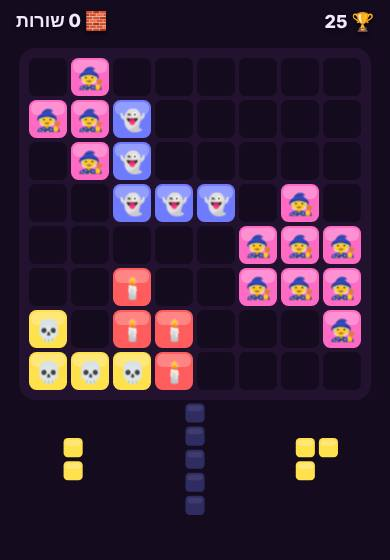
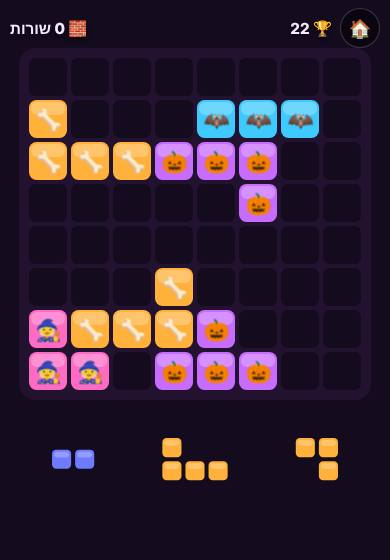
Add exit button to every game
A 🏠 button in each game's top bar (and a 'to all games' link on the start
and game-over cards) returns to the portal home page. The HUD keeps each
side on one line on narrow phones. All games rebuilt, thumbnails retaken.

Claude-Session: https://claude.ai/code/session_0117VfTLpEdnQyHN6pc1hrJg

diff --git a/games/idle-robots-5a80a9/index.html b/games/idle-robots-5a80a9/index.html
@@ -30,6 +30,13 @@
   .choice .ic { font-size:30px; }
   .hidden { display:none !important; }
   .credit { font-size:12px; opacity:.5; margin-top:14px; }
+  #hud .hr { display:flex; align-items:center; gap:8px; }
+  #hud #hudR, #hud #hudL { white-space:nowrap; }
+  @media (max-width:440px) { #hud { font-size:clamp(12px, 3.9vw, 17px); padding:8px 10px; gap:6px; } #home { width:34px; height:34px; font-size:16px; } }
+  #home { pointer-events:auto; width:38px; height:38px; flex:none; display:grid; place-items:center; border-radius:50%;
+    background:#0007; border:1px solid #fff3; text-decoration:none; font-size:18px; text-shadow:none; }
+  #home:active { transform:scale(.92); }
+  .home-link { display:inline-block; color:var(--fg); opacity:.85; font-size:14px; margin-top:10px; text-decoration:none; }
   .snd { background:none; border:1px solid var(--grid); color:var(--fg); border-radius:99px; padding:6px 14px; margin-top:12px; font:inherit; font-size:14px; cursor:pointer; opacity:.85; }
   #app { position:fixed; inset:0; display:flex; flex-direction:column; align-items:center; padding:52px 12px 12px; box-sizing:border-box; z-index:4; pointer-events:none; }
 #app > * { pointer-events:auto; }
@@ -57,7 +64,7 @@
 </head>
 <body>
 <canvas id="c" dir="ltr"></canvas>
-<div id="hud"><span id="hudR"></span><span id="hudL"></span></div>
+<div id="hud"><span class="hr"><a id="home" href="../../index.html" aria-label="חזרה לכל המשחקים" title="לכל המשחקים">🏠</a><span id="hudR"></span></span><span id="hudL"></span></div>
 <div id="app"></div>
 <div id="ov" class="hidden"><div class="card" id="card"></div></div>
 <script type="application/json" id="cfg">{"slug":"idle-robots-5a80a9","title":"מכרה הסוללות","icon":"⚙","howto":"לחץ על ⚙ כדי לאסוף 🔋, וקנה מחוללים. מדי פעם מופיע ✨ זוהר: תפוס אותו בזמן כדי לקבל ייצור פי 7 לכמה שניות!","genreName":"קליקר / איידל · בונוס זהב","theme":{"id":"robots","name":"רובוטים","palette":{"bg":"#0d1418","bg2":"#16232a","fg":"#e0fbff","accent":"#00e5ff","danger":"#ff3d3d","grid":"#1f343e"},"hero":"🤖","enemies":["🦾","📡","💣","🔩"],"boss":"🏭","pickup":"🔋","obstacle":["🚧","⚙"],"tiers":["🔩","⚙","🔋","💡","📟","💾","💻","🤖","🛰","🧠"],"gems":["🔋","⚙","💡","💾","🔩","📡"],"currency":"🔋","clickable":"⚙","buildings":[["🔧","מכונאי"],["⚙","פס ייצור"],["🤖","רובוט עוזר"],["🏭","מפעל"],["🛰","רשת לוויינים"],["🧠","בינה על"]],"words":{"place":"העיר הממוכנת","hero":"הרובוט","thing":"הסוללות","adj":"ממוכן"}},"params":{"speed":1.07,"click":1,"variant":"golden"}}</script>
@@ -195,7 +202,8 @@ function hud(right = '', left = '') {
 function showCard(html) { $card.innerHTML = html; $ov.classList.remove('hidden'); }
 function hideCard() { $ov.classList.add('hidden'); }
 
-const soundBtn = () => `<div><button class="snd" id="snd">${muted ? '🔇 צלילים כבויים' : '🔊 צלילים פועלים'}</button></div>`;
+const soundBtn = () => `<div><button class="snd" id="snd">${muted ? '🔇 צלילים כבויים' : '🔊 צלילים פועלים'}</button></div>
+  <a class="home-link" href="../../index.html">🏠 לכל המשחקים</a>`;
 function wireSound() {
   const b = document.getElementById('snd'); if (!b) return;
   b.onclick = () => { setMuted(!muted); b.textContent = muted ? '🔇 צלילים כבויים' : '🔊 צלילים פועלים'; if (!muted) beep(660, 0.12, 'triangle', 0.05); };

diff --git a/games/survivors-space-928206/index.html b/games/survivors-space-928206/index.html
@@ -30,13 +30,20 @@
   .choice .ic { font-size:30px; }
   .hidden { display:none !important; }
   .credit { font-size:12px; opacity:.5; margin-top:14px; }
+  #hud .hr { display:flex; align-items:center; gap:8px; }
+  #hud #hudR, #hud #hudL { white-space:nowrap; }
+  @media (max-width:440px) { #hud { font-size:clamp(12px, 3.9vw, 17px); padding:8px 10px; gap:6px; } #home { width:34px; height:34px; font-size:16px; } }
+  #home { pointer-events:auto; width:38px; height:38px; flex:none; display:grid; place-items:center; border-radius:50%;
+    background:#0007; border:1px solid #fff3; text-decoration:none; font-size:18px; text-shadow:none; }
+  #home:active { transform:scale(.92); }
+  .home-link { display:inline-block; color:var(--fg); opacity:.85; font-size:14px; margin-top:10px; text-decoration:none; }
   .snd { background:none; border:1px solid var(--grid); color:var(--fg); border-radius:99px; padding:6px 14px; margin-top:12px; font:inherit; font-size:14px; cursor:pointer; opacity:.85; }
   
 </style>
 </head>
 <body>
 <canvas id="c" dir="ltr"></canvas>
-<div id="hud"><span id="hudR"></span><span id="hudL"></span></div>
+<div id="hud"><span class="hr"><a id="home" href="../../index.html" aria-label="חזרה לכל המשחקים" title="לכל המשחקים">🏠</a><span id="hudR"></span></span><span id="hudL"></span></div>
 <div id="app"></div>
 <div id="ov" class="hidden"><div class="card" id="card"></div></div>
 <script type="application/json" id="cfg">{"slug":"survivors-space-928206","title":"הישרדות בחלל","icon":"🚀","howto":"האזור הבטוח מתכווץ וזז! הישאר בתוך העיגול, כי מחוצה לו מאבדים חיים. הנשק יורה לבד, וגוררים באצבע או משתמשים בחיצים כדי לזוז. אסוף יהלומים לשדרוגים.","genreName":"הישרדות מול גלים · אזור מתכווץ","theme":{"id":"space","name":"חלל","palette":{"bg":"#0b1026","bg2":"#151c3d","fg":"#e8ecff","accent":"#ffcc33","danger":"#ff4d6d","grid":"#1f2a55"},"hero":"🚀","enemies":["👾","🛸","☄","👽"],"boss":"🪐","pickup":"⭐","obstacle":["☄","🛰"],"tiers":["🪨","☄","🌑","🌙","⭐","🌍","🪐","☀","🌌","✨"],"gems":["🌍","🪐","⭐","🌙","☄","👾"],"currency":"💎","clickable":"🪐","buildings":[["🛰","לוויין"],["🛸","ספינת כרייה"],["🤖","רובוט כורה"],["🌙","בסיס ירחי"],["🪐","מושבה"],["🌌","גלקסיה"]],"words":{"place":"החלל","hero":"הטייס","thing":"הכוכבים","adj":"קוסמי"}},"params":{"enemySpeed":53.669,"spawnRate":0.738,"playerSpeed":225.36,"fireRate":2.1975873688894465,"hp":7,"bossEvery":63,"zoneShrink":1.8,"variant":"zone"}}</script>
@@ -174,7 +181,8 @@ function hud(right = '', left = '') {
 function showCard(html) { $card.innerHTML = html; $ov.classList.remove('hidden'); }
 function hideCard() { $ov.classList.add('hidden'); }
 
-const soundBtn = () => `<div><button class="snd" id="snd">${muted ? '🔇 צלילים כבויים' : '🔊 צלילים פועלים'}</button></div>`;
+const soundBtn = () => `<div><button class="snd" id="snd">${muted ? '🔇 צלילים כבויים' : '🔊 צלילים פועלים'}</button></div>
+  <a class="home-link" href="../../index.html">🏠 לכל המשחקים</a>`;
 function wireSound() {
   const b = document.getElementById('snd'); if (!b) return;
   b.onclick = () => { setMuted(!muted); b.textContent = muted ? '🔇 צלילים כבויים' : '🔊 צלילים פועלים'; if (!muted) beep(660, 0.12, 'triangle', 0.05); };

diff --git a/games/survivors-spooky-316990/index.html b/games/survivors-spooky-316990/index.html
@@ -30,13 +30,20 @@
   .choice .ic { font-size:30px; }
   .hidden { display:none !important; }
   .credit { font-size:12px; opacity:.5; margin-top:14px; }
+  #hud .hr { display:flex; align-items:center; gap:8px; }
+  #hud #hudR, #hud #hudL { white-space:nowrap; }
+  @media (max-width:440px) { #hud { font-size:clamp(12px, 3.9vw, 17px); padding:8px 10px; gap:6px; } #home { width:34px; height:34px; font-size:16px; } }
+  #home { pointer-events:auto; width:38px; height:38px; flex:none; display:grid; place-items:center; border-radius:50%;
+    background:#0007; border:1px solid #fff3; text-decoration:none; font-size:18px; text-shadow:none; }
+  #home:active { transform:scale(.92); }
+  .home-link { display:inline-block; color:var(--fg); opacity:.85; font-size:14px; margin-top:10px; text-decoration:none; }
   .snd { background:none; border:1px solid var(--grid); color:var(--fg); border-radius:99px; padding:6px 14px; margin-top:12px; font:inherit; font-size:14px; cursor:pointer; opacity:.85; }
   
 </style>
 </head>
 <body>
 <canvas id="c" dir="ltr"></canvas>
-<div id="hud"><span id="hudR"></span><span id="hudL"></span></div>
+<div id="hud"><span class="hr"><a id="home" href="../../index.html" aria-label="חזרה לכל המשחקים" title="לכל המשחקים">🏠</a><span id="hudR"></span></span><span id="hudL"></span></div>
 <div id="app"></div>
 <div id="ov" class="hidden"><div class="card" id="card"></div></div>
 <script type="application/json" id="cfg">{"slug":"survivors-spooky-316990","title":"הדלעת נגד כולם","icon":"🎃","howto":"שרוד מול גלי 👻🦇💀🧟 ככל שתוכל! הנשק יורה לבד. זוז עם החיצים או WASD, או גרור באצבע. אסוף את היהלומים הזוהרים כדי לעלות שלב ולבחור שדרוג.","genreName":"הישרדות מול גלים","theme":{"id":"spooky","name":"מפחיד","palette":{"bg":"#140b1f","bg2":"#22122f","fg":"#f3e9ff","accent":"#ff9a1f","danger":"#9dff4d","grid":"#2e1a40"},"hero":"🎃","enemies":["👻","🦇","💀","🧟"],"boss":"🧛","pickup":"🍬","obstacle":["🪦","🕸"],"tiers":["🕯","🦴","💀","🕸","🦇","👻","🎃","🧙","🧛","🌕"],"gems":["🎃","👻","💀","🦇","🕷","🍬"],"currency":"👻","clickable":"🎃","buildings":[["🕯","נר קסום"],["🦇","עטלף"],["🧹","מטאטא"],["🧙","מכשפה"],["🏚","בית רדוף"],["🌕","ירח מלא"]],"words":{"place":"בית הקברות","hero":"הדלעת","thing":"הרוחות","adj":"אפל"}},"params":{"enemySpeed":73.9442,"spawnRate":1.3298,"playerSpeed":220.17,"fireRate":1.991786412935408,"hp":5,"bossEvery":55}}</script>
@@ -174,7 +181,8 @@ function hud(right = '', left = '') {
 function showCard(html) { $card.innerHTML = html; $ov.classList.remove('hidden'); }
 function hideCard() { $ov.classList.add('hidden'); }
 
-const soundBtn = () => `<div><button class="snd" id="snd">${muted ? '🔇 צלילים כבויים' : '🔊 צלילים פועלים'}</button></div>`;
+const soundBtn = () => `<div><button class="snd" id="snd">${muted ? '🔇 צלילים כבויים' : '🔊 צלילים פועלים'}</button></div>
+  <a class="home-link" href="../../index.html">🏠 לכל המשחקים</a>`;
 function wireSound() {
   const b = document.getElementById('snd'); if (!b) return;
   b.onclick = () => { setMuted(!muted); b.textContent = muted ? '🔇 צלילים כבויים' : '🔊 צלילים פועלים'; if (!muted) beep(660, 0.12, 'triangle', 0.05); };

diff --git a/games/arrows-robots-95ec09/index.html b/games/arrows-robots-95ec09/index.html
@@ -30,13 +30,20 @@
   .choice .ic { font-size:30px; }
   .hidden { display:none !important; }
   .credit { font-size:12px; opacity:.5; margin-top:14px; }
+  #hud .hr { display:flex; align-items:center; gap:8px; }
+  #hud #hudR, #hud #hudL { white-space:nowrap; }
+  @media (max-width:440px) { #hud { font-size:clamp(12px, 3.9vw, 17px); padding:8px 10px; gap:6px; } #home { width:34px; height:34px; font-size:16px; } }
+  #home { pointer-events:auto; width:38px; height:38px; flex:none; display:grid; place-items:center; border-radius:50%;
+    background:#0007; border:1px solid #fff3; text-decoration:none; font-size:18px; text-shadow:none; }
+  #home:active { transform:scale(.92); }
+  .home-link { display:inline-block; color:var(--fg); opacity:.85; font-size:14px; margin-top:10px; text-decoration:none; }
   .snd { background:none; border:1px solid var(--grid); color:var(--fg); border-radius:99px; padding:6px 14px; margin-top:12px; font:inherit; font-size:14px; cursor:pointer; opacity:.85; }
   
 </style>
 </head>
 <body>
 <canvas id="c" dir="ltr"></canvas>
-<div id="hud"><span id="hudR"></span><span id="hudL"></span></div>
+<div id="hud"><span class="hr"><a id="home" href="../../index.html" aria-label="חזרה לכל המשחקים" title="לכל המשחקים">🏠</a><span id="hudR"></span></span><span id="hudL"></span></div>
 <div id="app"></div>
 <div id="ov" class="hidden"><div class="card" id="card"></div></div>
 <script type="application/json" id="cfg">{"slug":"arrows-robots-95ec09","title":"מבוך החצים","icon":"➡","howto":"לחץ על חץ, והוא יחליק החוצה בכיוון שלו אם הדרך פנויה. חץ שנתקע בחץ אחר עולה בלב ❤. נקה את כל החצים כדי לעבור שלב. כל לוח פתיר, צריך רק למצוא את הסדר.","genreName":"פאזל חצים","theme":{"id":"robots","name":"רובוטים","palette":{"bg":"#0d1418","bg2":"#16232a","fg":"#e0fbff","accent":"#00e5ff","danger":"#ff3d3d","grid":"#1f343e"},"hero":"🤖","enemies":["🦾","📡","💣","🔩"],"boss":"🏭","pickup":"🔋","obstacle":["🚧","⚙"],"tiers":["🔩","⚙","🔋","💡","📟","💾","💻","🤖","🛰","🧠"],"gems":["🔋","⚙","💡","💾","🔩","📡"],"currency":"🔋","clickable":"⚙","buildings":[["🔧","מכונאי"],["⚙","פס ייצור"],["🤖","רובוט עוזר"],["🏭","מפעל"],["🛰","רשת לוויינים"],["🧠","בינה על"]],"words":{"place":"העיר הממוכנת","hero":"הרובוט","thing":"הסוללות","adj":"ממוכן"}},"params":{"startSize":4,"maxSize":9,"density":0.5576,"hearts":3}}</script>
@@ -174,7 +181,8 @@ function hud(right = '', left = '') {
 function showCard(html) { $card.innerHTML = html; $ov.classList.remove('hidden'); }
 function hideCard() { $ov.classList.add('hidden'); }
 
-const soundBtn = () => `<div><button class="snd" id="snd">${muted ? '🔇 צלילים כבויים' : '🔊 צלילים פועלים'}</button></div>`;
+const soundBtn = () => `<div><button class="snd" id="snd">${muted ? '🔇 צלילים כבויים' : '🔊 צלילים פועלים'}</button></div>
+  <a class="home-link" href="../../index.html">🏠 לכל המשחקים</a>`;
 function wireSound() {
   const b = document.getElementById('snd'); if (!b) return;
   b.onclick = () => { setMuted(!muted); b.textContent = muted ? '🔇 צלילים כבויים' : '🔊 צלילים פועלים'; if (!muted) beep(660, 0.12, 'triangle', 0.05); };

diff --git a/games/idle-farm-794578/index.html b/games/idle-farm-794578/index.html
@@ -30,6 +30,13 @@
   .choice .ic { font-size:30px; }
   .hidden { display:none !important; }
   .credit { font-size:12px; opacity:.5; margin-top:14px; }
+  #hud .hr { display:flex; align-items:center; gap:8px; }
+  #hud #hudR, #hud #hudL { white-space:nowrap; }
+  @media (max-width:440px) { #hud { font-size:clamp(12px, 3.9vw, 17px); padding:8px 10px; gap:6px; } #home { width:34px; height:34px; font-size:16px; } }
+  #home { pointer-events:auto; width:38px; height:38px; flex:none; display:grid; place-items:center; border-radius:50%;
+    background:#0007; border:1px solid #fff3; text-decoration:none; font-size:18px; text-shadow:none; }
+  #home:active { transform:scale(.92); }
+  .home-link { display:inline-block; color:var(--fg); opacity:.85; font-size:14px; margin-top:10px; text-decoration:none; }
   .snd { background:none; border:1px solid var(--grid); color:var(--fg); border-radius:99px; padding:6px 14px; margin-top:12px; font:inherit; font-size:14px; cursor:pointer; opacity:.85; }
   #app { position:fixed; inset:0; display:flex; flex-direction:column; align-items:center; padding:52px 12px 12px; box-sizing:border-box; z-index:4; pointer-events:none; }
 #app > * { pointer-events:auto; }
@@ -57,7 +64,7 @@
 </head>
 <body>
 <canvas id="c" dir="ltr"></canvas>
-<div id="hud"><span id="hudR"></span><span id="hudL"></span></div>
+<div id="hud"><span class="hr"><a id="home" href="../../index.html" aria-label="חזרה לכל המשחקים" title="לכל המשחקים">🏠</a><span id="hudR"></span></span><span id="hudL"></span></div>
 <div id="app"></div>
 <div id="ov" class="hidden"><div class="card" id="card"></div></div>
 <script type="application/json" id="cfg">{"slug":"idle-farm-794578","title":"טייקון החווה","icon":"🌽","howto":"לחץ על 🌽 כדי לאסוף 🥚, וקנה מחוללים שמייצרים בשבילך. ההתקדמות נשמרת.","genreName":"קליקר / איידל","theme":{"id":"farm","name":"חווה","palette":{"bg":"#2b3a12","bg2":"#3d5219","fg":"#fbffe8","accent":"#ffb627","danger":"#e63946","grid":"#4a6320"},"hero":"🐔","enemies":["🦊","🐀","🐗","🐦⬛"],"boss":"🐻","pickup":"🥚","obstacle":["🪵","🌾"],"tiers":["🌱","🌾","🥕","🍅","🌽","🥚","🐣","🐔","🐄","🚜"],"gems":["🥕","🍅","🌽","🥚","🍎","🍇"],"currency":"🥚","clickable":"🌽","buildings":[["🐔","לול"],["🐄","רפת"],["🌻","שדה"],["🚜","טרקטור"],["🏡","משק"],["🏞","עמק שלם"]],"words":{"place":"החווה","hero":"התרנגולת","thing":"הביצים","adj":"כפרי"}},"params":{"speed":0.9508196721311475,"click":1}}</script>
@@ -195,7 +202,8 @@ function hud(right = '', left = '') {
 function showCard(html) { $card.innerHTML = html; $ov.classList.remove('hidden'); }
 function hideCard() { $ov.classList.add('hidden'); }
 
-const soundBtn = () => `<div><button class="snd" id="snd">${muted ? '🔇 צלילים כבויים' : '🔊 צלילים פועלים'}</button></div>`;
+const soundBtn = () => `<div><button class="snd" id="snd">${muted ? '🔇 צלילים כבויים' : '🔊 צלילים פועלים'}</button></div>
+  <a class="home-link" href="../../index.html">🏠 לכל המשחקים</a>`;
 function wireSound() {
   const b = document.getElementById('snd'); if (!b) return;
   b.onclick = () => { setMuted(!muted); b.textContent = muted ? '🔇 צלילים כבויים' : '🔊 צלילים פועלים'; if (!muted) beep(660, 0.12, 'triangle', 0.05); };

diff --git a/games/survivors-jungle-6c7c4f/index.html b/games/survivors-jungle-6c7c4f/index.html
@@ -30,13 +30,20 @@
   .choice .ic { font-size:30px; }
   .hidden { display:none !important; }
   .credit { font-size:12px; opacity:.5; margin-top:14px; }
+  #hud .hr { display:flex; align-items:center; gap:8px; }
+  #hud #hudR, #hud #hudL { white-space:nowrap; }
+  @media (max-width:440px) { #hud { font-size:clamp(12px, 3.9vw, 17px); padding:8px 10px; gap:6px; } #home { width:34px; height:34px; font-size:16px; } }
+  #home { pointer-events:auto; width:38px; height:38px; flex:none; display:grid; place-items:center; border-radius:50%;
+    background:#0007; border:1px solid #fff3; text-decoration:none; font-size:18px; text-shadow:none; }
+  #home:active { transform:scale(.92); }
+  .home-link { display:inline-block; color:var(--fg); opacity:.85; font-size:14px; margin-top:10px; text-decoration:none; }
   .snd { background:none; border:1px solid var(--grid); color:var(--fg); border-radius:99px; padding:6px 14px; margin-top:12px; font:inherit; font-size:14px; cursor:pointer; opacity:.85; }
   
 </style>
 </head>
 <body>
 <canvas id="c" dir="ltr"></canvas>
-<div id="hud"><span id="hudR"></span><span id="hudL"></span></div>
+<div id="hud"><span class="hr"><a id="home" href="../../index.html" aria-label="חזרה לכל המשחקים" title="לכל המשחקים">🏠</a><span id="hudR"></span></span><span id="hudL"></span></div>
 <div id="app"></div>
 <div id="ov" class="hidden"><div class="card" id="card"></div></div>
 <script type="application/json" id="cfg">{"slug":"survivors-jungle-6c7c4f","title":"הקוף האחרון","icon":"🐒","howto":"שרוד מול גלי 🐍🦂🕷🐊 ככל שתוכל! הנשק יורה לבד. זוז עם החיצים או WASD, או גרור באצבע. אסוף את היהלומים הזוהרים כדי לעלות שלב ולבחור שדרוג.","genreName":"הישרדות מול גלים","theme":{"id":"jungle","name":"ג'ונגל","palette":{"bg":"#0f2a17","bg2":"#173d22","fg":"#eaffea","accent":"#ffd23f","danger":"#ff5a36","grid":"#1e4d2b"},"hero":"🐒","enemies":["🐍","🦂","🕷","🐊"],"boss":"🦍","pickup":"🍌","obstacle":["🌵","🪨"],"tiers":["🌱","🌿","🍀","🌴","🌳","🍌","🥥","🦜","🐯","👑"],"gems":["🍌","🥥","🦜","🐸","🌺","🍍"],"currency":"🍌","clickable":"🌴","buildings":[["🐒","קוף קוטף"],["🦜","תוכי שליח"],["🐘","פיל סבל"],["🛖","כפר"],["🗿","מקדש"],["🌋","הר געש"]],"words":{"place":"הג'ונגל","hero":"הקוף","thing":"הבננות","adj":"פראי"}},"params":{"enemySpeed":64.19,"spawnRate":0.96,"playerSpeed":211.29,"fireRate":1.79,"hp":6,"bossEvery":68}}</script>
@@ -174,7 +181,8 @@ function hud(right = '', left = '') {
 function showCard(html) { $card.innerHTML = html; $ov.classList.remove('hidden'); }
 function hideCard() { $ov.classList.add('hidden'); }
 
-const soundBtn = () => `<div><button class="snd" id="snd">${muted ? '🔇 צלילים כבויים' : '🔊 צלילים פועלים'}</button></div>`;
+const soundBtn = () => `<div><button class="snd" id="snd">${muted ? '🔇 צלילים כבויים' : '🔊 צלילים פועלים'}</button></div>
+  <a class="home-link" href="../../index.html">🏠 לכל המשחקים</a>`;
 function wireSound() {
   const b = document.getElementById('snd'); if (!b) return;
   b.onclick = () => { setMuted(!muted); b.textContent = muted ? '🔇 צלילים כבויים' : '🔊 צלילים פועלים'; if (!muted) beep(660, 0.12, 'triangle', 0.05); };

diff --git a/games/match3-candy-2f26f4/index.html b/games/match3-candy-2f26f4/index.html
@@ -30,13 +30,20 @@
   .choice .ic { font-size:30px; }
   .hidden { display:none !important; }
   .credit { font-size:12px; opacity:.5; margin-top:14px; }
+  #hud .hr { display:flex; align-items:center; gap:8px; }
+  #hud #hudR, #hud #hudL { white-space:nowrap; }
+  @media (max-width:440px) { #hud { font-size:clamp(12px, 3.9vw, 17px); padding:8px 10px; gap:6px; } #home { width:34px; height:34px; font-size:16px; } }
+  #home { pointer-events:auto; width:38px; height:38px; flex:none; display:grid; place-items:center; border-radius:50%;
+    background:#0007; border:1px solid #fff3; text-decoration:none; font-size:18px; text-shadow:none; }
+  #home:active { transform:scale(.92); }
+  .home-link { display:inline-block; color:var(--fg); opacity:.85; font-size:14px; margin-top:10px; text-decoration:none; }
   .snd { background:none; border:1px solid var(--grid); color:var(--fg); border-radius:99px; padding:6px 14px; margin-top:12px; font:inherit; font-size:14px; cursor:pointer; opacity:.85; }
   
 </style>
 </head>
 <body>
 <canvas id="c" dir="ltr"></canvas>
-<div id="hud"><span id="hudR"></span><span id="hudL"></span></div>
+<div id="hud"><span class="hr"><a id="home" href="../../index.html" aria-label="חזרה לכל המשחקים" title="לכל המשחקים">🏠</a><span id="hudR"></span></span><span id="hudL"></span></div>
 <div id="app"></div>
 <div id="ov" class="hidden"><div class="card" id="card"></div></div>
 <script type="application/json" id="cfg">{"slug":"match3-candy-2f26f4","title":"מרוץ בארץ הממתקים","icon":"🍬","howto":"אין מגבלת מהלכים, יש שעון! החלף פריטים צמודים ליצירת שורות של 3. כל שלב שעוברים מוסיף זמן. כמה תספיק?","genreName":"התאמת שלוש · נגד השעון","theme":{"id":"candy","name":"ממתקים","palette":{"bg":"#3b0d36","bg2":"#5a1650","fg":"#fff0fb","accent":"#ff8ad8","danger":"#ff3355","grid":"#6e2163"},"hero":"🧁","enemies":["🍬","🍭","🍫","🍩"],"boss":"🎂","pickup":"🍒","obstacle":["🍭","🧊"],"tiers":["🍬","🍭","🍪","🍩","🧁","🍰","🎂","🍫","🍯","👑"],"gems":["🍬","🍭","🍩","🧁","🍫","🍒"],"currency":"🍬","clickable":"🍩","buildings":[["🍪","תנור עוגיות"],["🍦","מכונת גלידה"],["🧁","קונדיטוריה"],["🍫","מפעל שוקולד"],["🏭","עיר ממתקים"],["🌈","קשת סוכר"]],"words":{"place":"ארץ הממתקים","hero":"הקאפקייק","thing":"הסוכריות","adj":"מתוק"}},"params":{"kinds":6,"moves":19,"target":936,"time":50,"variant":"timed"}}</script>
@@ -174,7 +181,8 @@ function hud(right = '', left = '') {
 function showCard(html) { $card.innerHTML = html; $ov.classList.remove('hidden'); }
 function hideCard() { $ov.classList.add('hidden'); }
 
-const soundBtn = () => `<div><button class="snd" id="snd">${muted ? '🔇 צלילים כבויים' : '🔊 צלילים פועלים'}</button></div>`;
+const soundBtn = () => `<div><button class="snd" id="snd">${muted ? '🔇 צלילים כבויים' : '🔊 צלילים פועלים'}</button></div>
+  <a class="home-link" href="../../index.html">🏠 לכל המשחקים</a>`;
 function wireSound() {
   const b = document.getElementById('snd'); if (!b) return;
   b.onclick = () => { setMuted(!muted); b.textContent = muted ? '🔇 צלילים כבויים' : '🔊 צלילים פועלים'; if (!muted) beep(660, 0.12, 'triangle', 0.05); };

diff --git a/games/match3-jungle-b72bef/index.html b/games/match3-jungle-b72bef/index.html
@@ -30,13 +30,20 @@
   .choice .ic { font-size:30px; }
   .hidden { display:none !important; }
   .credit { font-size:12px; opacity:.5; margin-top:14px; }
+  #hud .hr { display:flex; align-items:center; gap:8px; }
+  #hud #hudR, #hud #hudL { white-space:nowrap; }
+  @media (max-width:440px) { #hud { font-size:clamp(12px, 3.9vw, 17px); padding:8px 10px; gap:6px; } #home { width:34px; height:34px; font-size:16px; } }
+  #home { pointer-events:auto; width:38px; height:38px; flex:none; display:grid; place-items:center; border-radius:50%;
+    background:#0007; border:1px solid #fff3; text-decoration:none; font-size:18px; text-shadow:none; }
+  #home:active { transform:scale(.92); }
+  .home-link { display:inline-block; color:var(--fg); opacity:.85; font-size:14px; margin-top:10px; text-decoration:none; }
   .snd { background:none; border:1px solid var(--grid); color:var(--fg); border-radius:99px; padding:6px 14px; margin-top:12px; font:inherit; font-size:14px; cursor:pointer; opacity:.85; }
   
 </style>
 </head>
 <body>
 <canvas id="c" dir="ltr"></canvas>
-<div id="hud"><span id="hudR"></span><span id="hudL"></span></div>
+<div id="hud"><span class="hr"><a id="home" href="../../index.html" aria-label="חזרה לכל המשחקים" title="לכל המשחקים">🏠</a><span id="hudR"></span></span><span id="hudL"></span></div>
 <div id="app"></div>
 <div id="ov" class="hidden"><div class="card" id="card"></div></div>
 <script type="application/json" id="cfg">{"slug":"match3-jungle-b72bef","title":"שלוש בג'ונגל","icon":"🍌","howto":"החלף שני פריטים צמודים (גרירה או שתי לחיצות) כדי ליצור שורה של 3 ומעלה. 4 ברצף יוצרים פריט פס שמנקה שורה, 5 יוצרים פצצת צבע 💥. הגע ליעד הניקוד לפני שנגמרים המהלכים.","genreName":"התאמת שלוש","theme":{"id":"jungle","name":"ג'ונגל","palette":{"bg":"#0f2a17","bg2":"#173d22","fg":"#eaffea","accent":"#ffd23f","danger":"#ff5a36","grid":"#1e4d2b"},"hero":"🐒","enemies":["🐍","🦂","🕷","🐊"],"boss":"🦍","pickup":"🍌","obstacle":["🌵","🪨"],"tiers":["🌱","🌿","🍀","🌴","🌳","🍌","🥥","🦜","🐯","👑"],"gems":["🍌","🥥","🦜","🐸","🌺","🍍"],"currency":"🍌","clickable":"🌴","buildings":[["🐒","קוף קוטף"],["🦜","תוכי שליח"],["🐘","פיל סבל"],["🛖","כפר"],["🗿","מקדש"],["🌋","הר געש"]],"words":{"place":"הג'ונגל","hero":"הקוף","thing":"הבננות","adj":"פראי"}},"params":{"kinds":5,"moves":24,"target":763}}</script>
@@ -174,7 +181,8 @@ function hud(right = '', left = '') {
 function showCard(html) { $card.innerHTML = html; $ov.classList.remove('hidden'); }
 function hideCard() { $ov.classList.add('hidden'); }
 
-const soundBtn = () => `<div><button class="snd" id="snd">${muted ? '🔇 צלילים כבויים' : '🔊 צלילים פועלים'}</button></div>`;
+const soundBtn = () => `<div><button class="snd" id="snd">${muted ? '🔇 צלילים כבויים' : '🔊 צלילים פועלים'}</button></div>
+  <a class="home-link" href="../../index.html">🏠 לכל המשחקים</a>`;
 function wireSound() {
   const b = document.getElementById('snd'); if (!b) return;
   b.onclick = () => { setMuted(!muted); b.textContent = muted ? '🔇 צלילים כבויים' : '🔊 צלילים פועלים'; if (!muted) beep(660, 0.12, 'triangle', 0.05); };

diff --git a/games/merge-robots-673991/index.html b/games/merge-robots-673991/index.html
@@ -30,13 +30,20 @@
   .choice .ic { font-size:30px; }
   .hidden { display:none !important; }
   .credit { font-size:12px; opacity:.5; margin-top:14px; }
+  #hud .hr { display:flex; align-items:center; gap:8px; }
+  #hud #hudR, #hud #hudL { white-space:nowrap; }
+  @media (max-width:440px) { #hud { font-size:clamp(12px, 3.9vw, 17px); padding:8px 10px; gap:6px; } #home { width:34px; height:34px; font-size:16px; } }
+  #home { pointer-events:auto; width:38px; height:38px; flex:none; display:grid; place-items:center; border-radius:50%;
+    background:#0007; border:1px solid #fff3; text-decoration:none; font-size:18px; text-shadow:none; }
+  #home:active { transform:scale(.92); }
+  .home-link { display:inline-block; color:var(--fg); opacity:.85; font-size:14px; margin-top:10px; text-decoration:none; }
   .snd { background:none; border:1px solid var(--grid); color:var(--fg); border-radius:99px; padding:6px 14px; margin-top:12px; font:inherit; font-size:14px; cursor:pointer; opacity:.85; }
   
 </style>
 </head>
 <body>
 <canvas id="c" dir="ltr"></canvas>
-<div id="hud"><span id="hudR"></span><span id="hudL"></span></div>
+<div id="hud"><span class="hr"><a id="home" href="../../index.html" aria-label="חזרה לכל המשחקים" title="לכל המשחקים">🏠</a><span id="hudR"></span></span><span id="hudL"></span></div>
 <div id="app"></div>
 <div id="ov" class="hidden"><div class="card" id="card"></div></div>
 <script type="application/json" id="cfg">{"slug":"merge-robots-673991","title":"מיזוג ממוכן","icon":"💾","howto":"לחץ על משבצת ריקה כדי להניח את הפריט הבא. 3 פריטים זהים צמודים מתמזגים לפריט הבא בסדרה: 🔩→⚙→🔋→💡… אפשר לשמור פריט בצד. נגמר כשהלוח מלא.","genreName":"מיזוג שלישיות","theme":{"id":"robots","name":"רובוטים","palette":{"bg":"#0d1418","bg2":"#16232a","fg":"#e0fbff","accent":"#00e5ff","danger":"#ff3d3d","grid":"#1f343e"},"hero":"🤖","enemies":["🦾","📡","💣","🔩"],"boss":"🏭","pickup":"🔋","obstacle":["🚧","⚙"],"tiers":["🔩","⚙","🔋","💡","📟","💾","💻","🤖","🛰","🧠"],"gems":["🔋","⚙","💡","💾","🔩","📡"],"currency":"🔋","clickable":"⚙","buildings":[["🔧","מכונאי"],["⚙","פס ייצור"],["🤖","רובוט עוזר"],["🏭","מפעל"],["🛰","רשת לוויינים"],["🧠","בינה על"]],"words":{"place":"העיר הממוכנת","hero":"הרובוט","thing":"הסוללות","adj":"ממוכן"}},"params":{"size":6}}</script>
@@ -174,7 +181,8 @@ function hud(right = '', left = '') {
 function showCard(html) { $card.innerHTML = html; $ov.classList.remove('hidden'); }
 function hideCard() { $ov.classList.add('hidden'); }
 
-const soundBtn = () => `<div><button class="snd" id="snd">${muted ? '🔇 צלילים כבויים' : '🔊 צלילים פועלים'}</button></div>`;
+const soundBtn = () => `<div><button class="snd" id="snd">${muted ? '🔇 צלילים כבויים' : '🔊 צלילים פועלים'}</button></div>
+  <a class="home-link" href="../../index.html">🏠 לכל המשחקים</a>`;
 function wireSound() {
   const b = document.getElementById('snd'); if (!b) return;
   b.onclick = () => { setMuted(!muted); b.textContent = muted ? '🔇 צלילים כבויים' : '🔊 צלילים פועלים'; if (!muted) beep(660, 0.12, 'triangle', 0.05); };

diff --git a/games/arrows-spooky-f30501/index.html b/games/arrows-spooky-f30501/index.html
@@ -30,13 +30,20 @@
   .choice .ic { font-size:30px; }
   .hidden { display:none !important; }
   .credit { font-size:12px; opacity:.5; margin-top:14px; }
+  #hud .hr { display:flex; align-items:center; gap:8px; }
+  #hud #hudR, #hud #hudL { white-space:nowrap; }
+  @media (max-width:440px) { #hud { font-size:clamp(12px, 3.9vw, 17px); padding:8px 10px; gap:6px; } #home { width:34px; height:34px; font-size:16px; } }
+  #home { pointer-events:auto; width:38px; height:38px; flex:none; display:grid; place-items:center; border-radius:50%;
+    background:#0007; border:1px solid #fff3; text-decoration:none; font-size:18px; text-shadow:none; }
+  #home:active { transform:scale(.92); }
+  .home-link { display:inline-block; color:var(--fg); opacity:.85; font-size:14px; margin-top:10px; text-decoration:none; }
   .snd { background:none; border:1px solid var(--grid); color:var(--fg); border-radius:99px; padding:6px 14px; margin-top:12px; font:inherit; font-size:14px; cursor:pointer; opacity:.85; }
   
 </style>
 </head>
 <body>
 <canvas id="c" dir="ltr"></canvas>
-<div id="hud"><span id="hudR"></span><span id="hudL"></span></div>
+<div id="hud"><span class="hr"><a id="home" href="../../index.html" aria-label="חזרה לכל המשחקים" title="לכל המשחקים">🏠</a><span id="hudR"></span></span><span id="hudL"></span></div>
 <div id="app"></div>
 <div id="ov" class="hidden"><div class="card" id="card"></div></div>
 <script type="application/json" id="cfg">{"slug":"arrows-spooky-f30501","title":"המצפן","icon":"➡","howto":"לחץ על חץ פנוי כדי להוציא אותו. לחיצה על חץ חסום מסובבת אותו ברבע סיבוב. יש מספר מהלכים מוגבל לכל שלב, אז תכנן את הסיבובים.","genreName":"פאזל חצים · סיבוב חצים","theme":{"id":"spooky","name":"מפחיד","palette":{"bg":"#140b1f","bg2":"#22122f","fg":"#f3e9ff","accent":"#ff9a1f","danger":"#9dff4d","grid":"#2e1a40"},"hero":"🎃","enemies":["👻","🦇","💀","🧟"],"boss":"🧛","pickup":"🍬","obstacle":["🪦","🕸"],"tiers":["🕯","🦴","💀","🕸","🦇","👻","🎃","🧙","🧛","🌕"],"gems":["🎃","👻","💀","🦇","🕷","🍬"],"currency":"👻","clickable":"🎃","buildings":[["🕯","נר קסום"],["🦇","עטלף"],["🧹","מטאטא"],["🧙","מכשפה"],["🏚","בית רדוף"],["🌕","ירח מלא"]],"words":{"place":"בית הקברות","hero":"הדלעת","thing":"הרוחות","adj":"אפל"}},"params":{"startSize":4,"maxSize":9,"density":0.69,"hearts":3,"variant":"rotate"}}</script>
@@ -174,7 +181,8 @@ function hud(right = '', left = '') {
 function showCard(html) { $card.innerHTML = html; $ov.classList.remove('hidden'); }
 function hideCard() { $ov.classList.add('hidden'); }
 
-const soundBtn = () => `<div><button class="snd" id="snd">${muted ? '🔇 צלילים כבויים' : '🔊 צלילים פועלים'}</button></div>`;
+const soundBtn = () => `<div><button class="snd" id="snd">${muted ? '🔇 צלילים כבויים' : '🔊 צלילים פועלים'}</button></div>
+  <a class="home-link" href="../../index.html">🏠 לכל המשחקים</a>`;
 function wireSound() {
   const b = document.getElementById('snd'); if (!b) return;
   b.onclick = () => { setMuted(!muted); b.textContent = muted ? '🔇 צלילים כבויים' : '🔊 צלילים פועלים'; if (!muted) beep(660, 0.12, 'triangle', 0.05); };

diff --git a/games/runner-fantasy-6db496/index.html b/games/runner-fantasy-6db496/index.html
@@ -30,13 +30,20 @@
   .choice .ic { font-size:30px; }
   .hidden { display:none !important; }
   .credit { font-size:12px; opacity:.5; margin-top:14px; }
+  #hud .hr { display:flex; align-items:center; gap:8px; }
+  #hud #hudR, #hud #hudL { white-space:nowrap; }
+  @media (max-width:440px) { #hud { font-size:clamp(12px, 3.9vw, 17px); padding:8px 10px; gap:6px; } #home { width:34px; height:34px; font-size:16px; } }
+  #home { pointer-events:auto; width:38px; height:38px; flex:none; display:grid; place-items:center; border-radius:50%;
+    background:#0007; border:1px solid #fff3; text-decoration:none; font-size:18px; text-shadow:none; }
+  #home:active { transform:scale(.92); }
+  .home-link { display:inline-block; color:var(--fg); opacity:.85; font-size:14px; margin-top:10px; text-decoration:none; }
   .snd { background:none; border:1px solid var(--grid); color:var(--fg); border-radius:99px; padding:6px 14px; margin-top:12px; font:inherit; font-size:14px; cursor:pointer; opacity:.85; }
   
 </style>
 </head>
 <body>
 <canvas id="c" dir="ltr"></canvas>
-<div id="hud"><span id="hudR"></span><span id="hudL"></span></div>
+<div id="hud"><span class="hr"><a id="home" href="../../index.html" aria-label="חזרה לכל המשחקים" title="לכל המשחקים">🏠</a><span id="hudR"></span></span><span id="hudL"></span></div>
 <div id="app"></div>
 <div id="ov" class="hidden"><div class="card" id="card"></div></div>
 <script type="application/json" id="cfg">{"slug":"runner-fantasy-6db496","title":"בריחה מהממלכה","icon":"🧙","howto":"🧙 רץ בלי הפסקה. לחץ על המסך או על רווח כדי לקפוץ, ולחץ שוב באוויר לקפיצה כפולה. התחמק מ-🪨🔥 ואסוף 💰.","genreName":"ריצה אינסופית","theme":{"id":"fantasy","name":"פנטזיה","palette":{"bg":"#1a1033","bg2":"#2a1a4d","fg":"#f5efff","accent":"#ffd700","danger":"#ff4f4f","grid":"#3a2766"},"hero":"🧙","enemies":["👹","🧌","🐺","🦇"],"boss":"🐉","pickup":"💰","obstacle":["🪨","🔥"],"tiers":["🪙","💰","💍","🗡","🛡","⚔","👑","🔮","🐉","🏰"],"gems":["💎","👑","🔮","🗡","🛡","🧪"],"currency":"🪙","clickable":"🔮","buildings":[["🧝","שולית"],["⛏","מכרה"],["🧪","אלכימאי"],["🏰","טירה"],["🐉","דרקון מאולף"],["🌟","פורטל"]],"words":{"place":"הממלכה","hero":"הקוסם","thing":"האוצרות","adj":"אגדי"}},"params":{"speed":413.7142,"accel":8.905999999999999,"gravity":2572.99,"jump":822.75,"gapMul":0.8852459016393444}}</script>
@@ -174,7 +181,8 @@ function hud(right = '', left = '') {
 function showCard(html) { $card.innerHTML = html; $ov.classList.remove('hidden'); }
 function hideCard() { $ov.classList.add('hidden'); }
 
-const soundBtn = () => `<div><button class="snd" id="snd">${muted ? '🔇 צלילים כבויים' : '🔊 צלילים פועלים'}</button></div>`;
+const soundBtn = () => `<div><button class="snd" id="snd">${muted ? '🔇 צלילים כבויים' : '🔊 צלילים פועלים'}</button></div>
+  <a class="home-link" href="../../index.html">🏠 לכל המשחקים</a>`;
 function wireSound() {
   const b = document.getElementById('snd'); if (!b) return;
   b.onclick = () => { setMuted(!muted); b.textContent = muted ? '🔇 צלילים כבויים' : '🔊 צלילים פועלים'; if (!muted) beep(660, 0.12, 'triangle', 0.05); };

diff --git a/games/runner-farm-bcc797/index.html b/games/runner-farm-bcc797/index.html
@@ -30,13 +30,20 @@
   .choice .ic { font-size:30px; }
   .hidden { display:none !important; }
   .credit { font-size:12px; opacity:.5; margin-top:14px; }
+  #hud .hr { display:flex; align-items:center; gap:8px; }
+  #hud #hudR, #hud #hudL { white-space:nowrap; }
+  @media (max-width:440px) { #hud { font-size:clamp(12px, 3.9vw, 17px); padding:8px 10px; gap:6px; } #home { width:34px; height:34px; font-size:16px; } }
+  #home { pointer-events:auto; width:38px; height:38px; flex:none; display:grid; place-items:center; border-radius:50%;
+    background:#0007; border:1px solid #fff3; text-decoration:none; font-size:18px; text-shadow:none; }
+  #home:active { transform:scale(.92); }
+  .home-link { display:inline-block; color:var(--fg); opacity:.85; font-size:14px; margin-top:10px; text-decoration:none; }
   .snd { background:none; border:1px solid var(--grid); color:var(--fg); border-radius:99px; padding:6px 14px; margin-top:12px; font:inherit; font-size:14px; cursor:pointer; opacity:.85; }
   
 </style>
 </head>
 <body>
 <canvas id="c" dir="ltr"></canvas>
-<div id="hud"><span id="hudR"></span><span id="hudL"></span></div>
+<div id="hud"><span class="hr"><a id="home" href="../../index.html" aria-label="חזרה לכל המשחקים" title="לכל המשחקים">🏠</a><span id="hudR"></span></span><span id="hudL"></span></div>
 <div id="app"></div>
 <div id="ov" class="hidden"><div class="card" id="card"></div></div>
 <script type="application/json" id="cfg">{"slug":"runner-farm-bcc797","title":"תקרה ורצפה","icon":"🐔","howto":"לחץ כדי להפוך את הכבידה: 🐔 עובר בין הרצפה לתקרה. מכשולים מגיעים משני הצדדים, אז עבור לצד הפנוי בזמן.","genreName":"ריצה אינסופית · היפוך כבידה","theme":{"id":"farm","name":"חווה","palette":{"bg":"#2b3a12","bg2":"#3d5219","fg":"#fbffe8","accent":"#ffb627","danger":"#e63946","grid":"#4a6320"},"hero":"🐔","enemies":["🦊","🐀","🐗","🐦⬛"],"boss":"🐻","pickup":"🥚","obstacle":["🪵","🌾"],"tiers":["🌱","🌾","🥕","🍅","🌽","🥚","🐣","🐔","🐄","🚜"],"gems":["🥕","🍅","🌽","🥚","🍎","🍇"],"currency":"🥚","clickable":"🌽","buildings":[["🐔","לול"],["🐄","רפת"],["🌻","שדה"],["🚜","טרקטור"],["🏡","משק"],["🏞","עמק שלם"]],"words":{"place":"החווה","hero":"התרנגולת","thing":"הביצים","adj":"כפרי"}},"params":{"speed":413.6776,"accel":7.649399999999999,"gravity":2670.24,"jump":835.13,"gapMul":0.8606557377049181,"variant":"flip"}}</script>
@@ -174,7 +181,8 @@ function hud(right = '', left = '') {
 function showCard(html) { $card.innerHTML = html; $ov.classList.remove('hidden'); }
 function hideCard() { $ov.classList.add('hidden'); }
 
-const soundBtn = () => `<div><button class="snd" id="snd">${muted ? '🔇 צלילים כבויים' : '🔊 צלילים פועלים'}</button></div>`;
+const soundBtn = () => `<div><button class="snd" id="snd">${muted ? '🔇 צלילים כבויים' : '🔊 צלילים פועלים'}</button></div>
+  <a class="home-link" href="../../index.html">🏠 לכל המשחקים</a>`;
 function wireSound() {
   const b = document.getElementById('snd'); if (!b) return;
   b.onclick = () => { setMuted(!muted); b.textContent = muted ? '🔇 צלילים כבויים' : '🔊 צלילים פועלים'; if (!muted) beep(660, 0.12, 'triangle', 0.05); };
